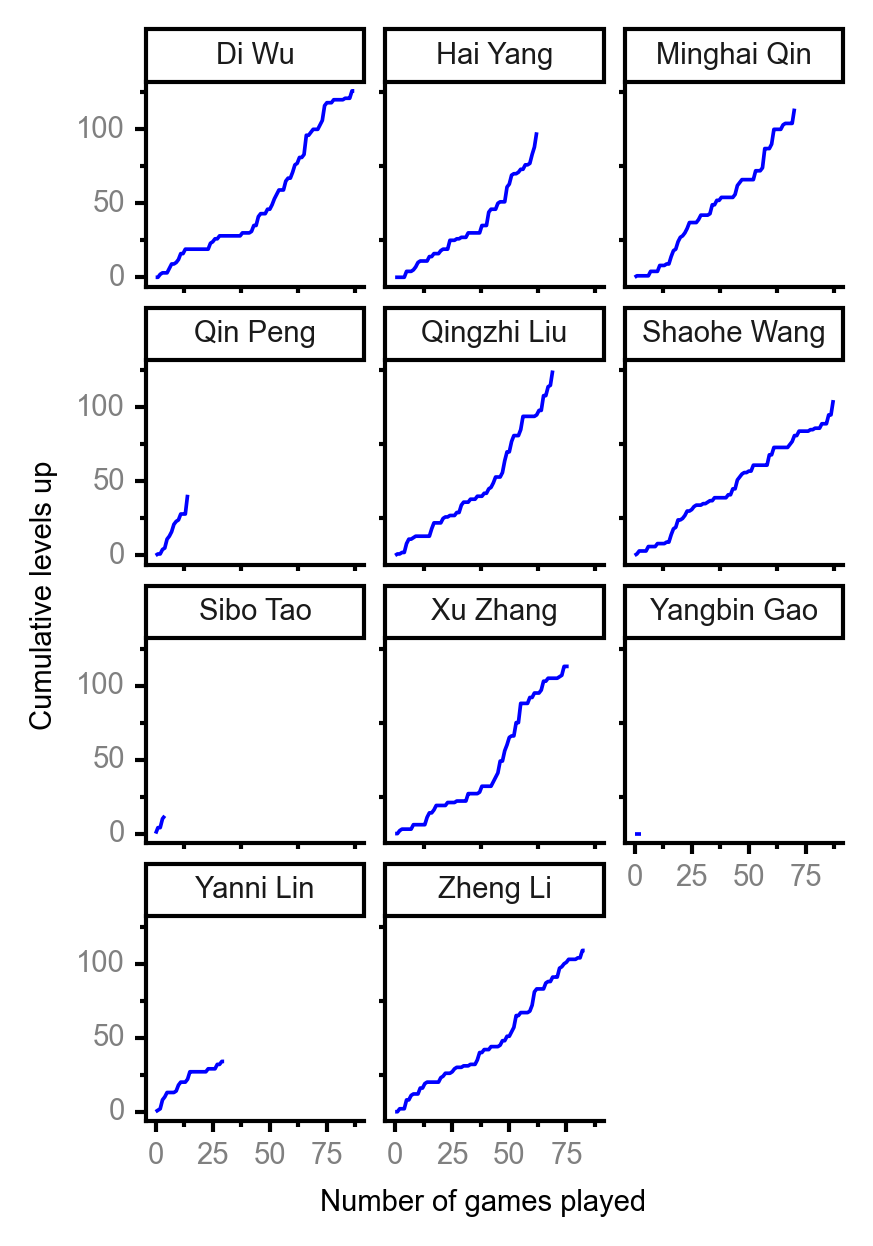
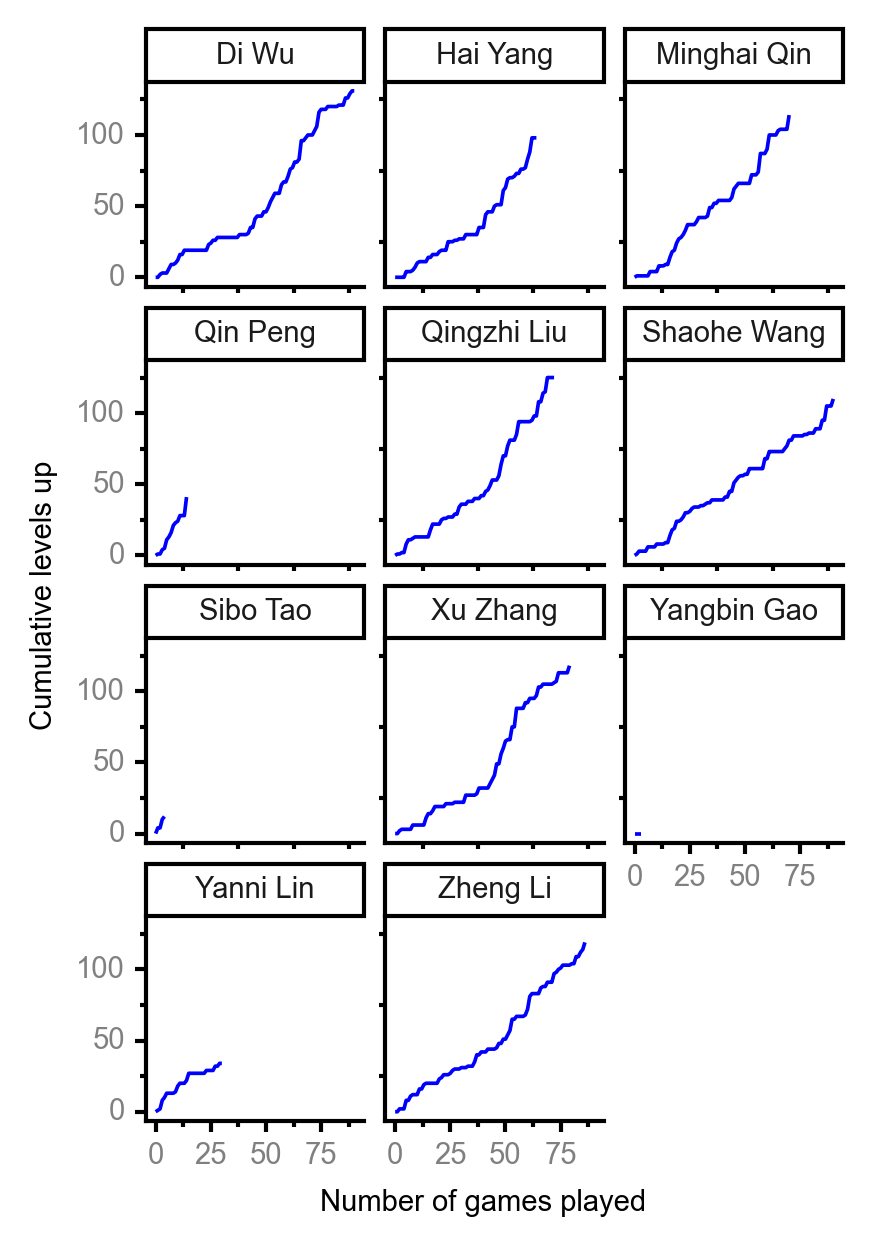
update player stats

diff --git a/player_stats.md b/player_stats.md
@@ -3,20 +3,20 @@ layout: player_stats
 title: Player Statistics
 author: Shaohe Wang
 author_url: https://scholar.google.com/citations?user=R_-kJV4AAAAJ&hl=en
-date: 2020-12-24
+date: 2020-12-26
 ---
 
 <div class="table-wrapper" markdown="block">
 
 | <br><br><br>Rank | <br><br><br>Player | <br> Lifetime <br> levels <br> up | <br><br> Winning <br> rate | <br> Average <br> levels <br> up | <br> Total <br> games <br> played | Games <br> played <br> as <br> MVP | Games <br> played <br> as <br> dealer | N_games <br> short <br> staffed <br> as dealer | Winning <br> rate <br> as <br> dealer |
 |:---:|:---:|:---:|:---:|:---:|:---:|:---:|:---:|:---:|:---:|
-| 1 | Di <br> Wu | 129 | 47.7% | 3.07 | 88 | 2 | 13 | 0 | 46.2% |
-| 2 | Qingzhi <br> Liu | 125 | 54.3% | 3.29 | 70 | 0 | 11 | 3 | 54.5% |
-| 3 | Minghai <br> Qin | 117 | 52.1% | 3.16 | 71 | 0 | 10 | 1 | 70.0% |
-| 4 | Xu <br> Zhang | 113 | 42.9% | 3.42 | 77 | 0 | 9 | 0 | 33.3% |
-| 5 | Zheng <br> Li | 112 | 54.8% | 2.43 | 84 | 0 | 14 | 0 | 57.1% |
-| 6 | Shaohe <br> Wang | 105 | 48.9% | 2.44 | 88 | 0 | 16 | 1 | 37.5% |
-| 7 | Hai <br> Yang | 98 | 47.6% | 3.27 | 63 | 1 | 9 | 1 | 44.4% |
+| 1 | Di <br> Wu | 131 | 47.3% | 3.05 | 91 | 2 | 14 | 0 | 50.0% |
+| 2 | Qingzhi <br> Liu | 125 | 52.1% | 3.29 | 73 | 0 | 11 | 3 | 54.5% |
+| 3 | Zheng <br> Li | 121 | 56.3% | 2.47 | 87 | 1 | 15 | 0 | 60.0% |
+| 4 | Xu <br> Zhang | 120 | 43.8% | 3.43 | 80 | 0 | 10 | 0 | 40.0% |
+| 5 | Minghai <br> Qin | 117 | 52.1% | 3.16 | 71 | 0 | 10 | 1 | 70.0% |
+| 6 | Shaohe <br> Wang | 110 | 48.4% | 2.50 | 91 | 0 | 16 | 1 | 37.5% |
+| 7 | Hai <br> Yang | 100 | 47.7% | 3.23 | 65 | 2 | 9 | 1 | 44.4% |
 | 8 | Qin <br> Peng | 41 | 80.0% | 3.42 | 15 | 1 | 2 | 0 | 100.0% |
 | 9 | Yanni <br> Lin | 34 | 41.9% | 2.62 | 31 | 0 | 3 | 1 | 66.7% |
 | 10 | Sibo <br> Tao | 14 | 80.0% | 3.50 | 5 | 0 | 0 | 0 | 0.0% |
